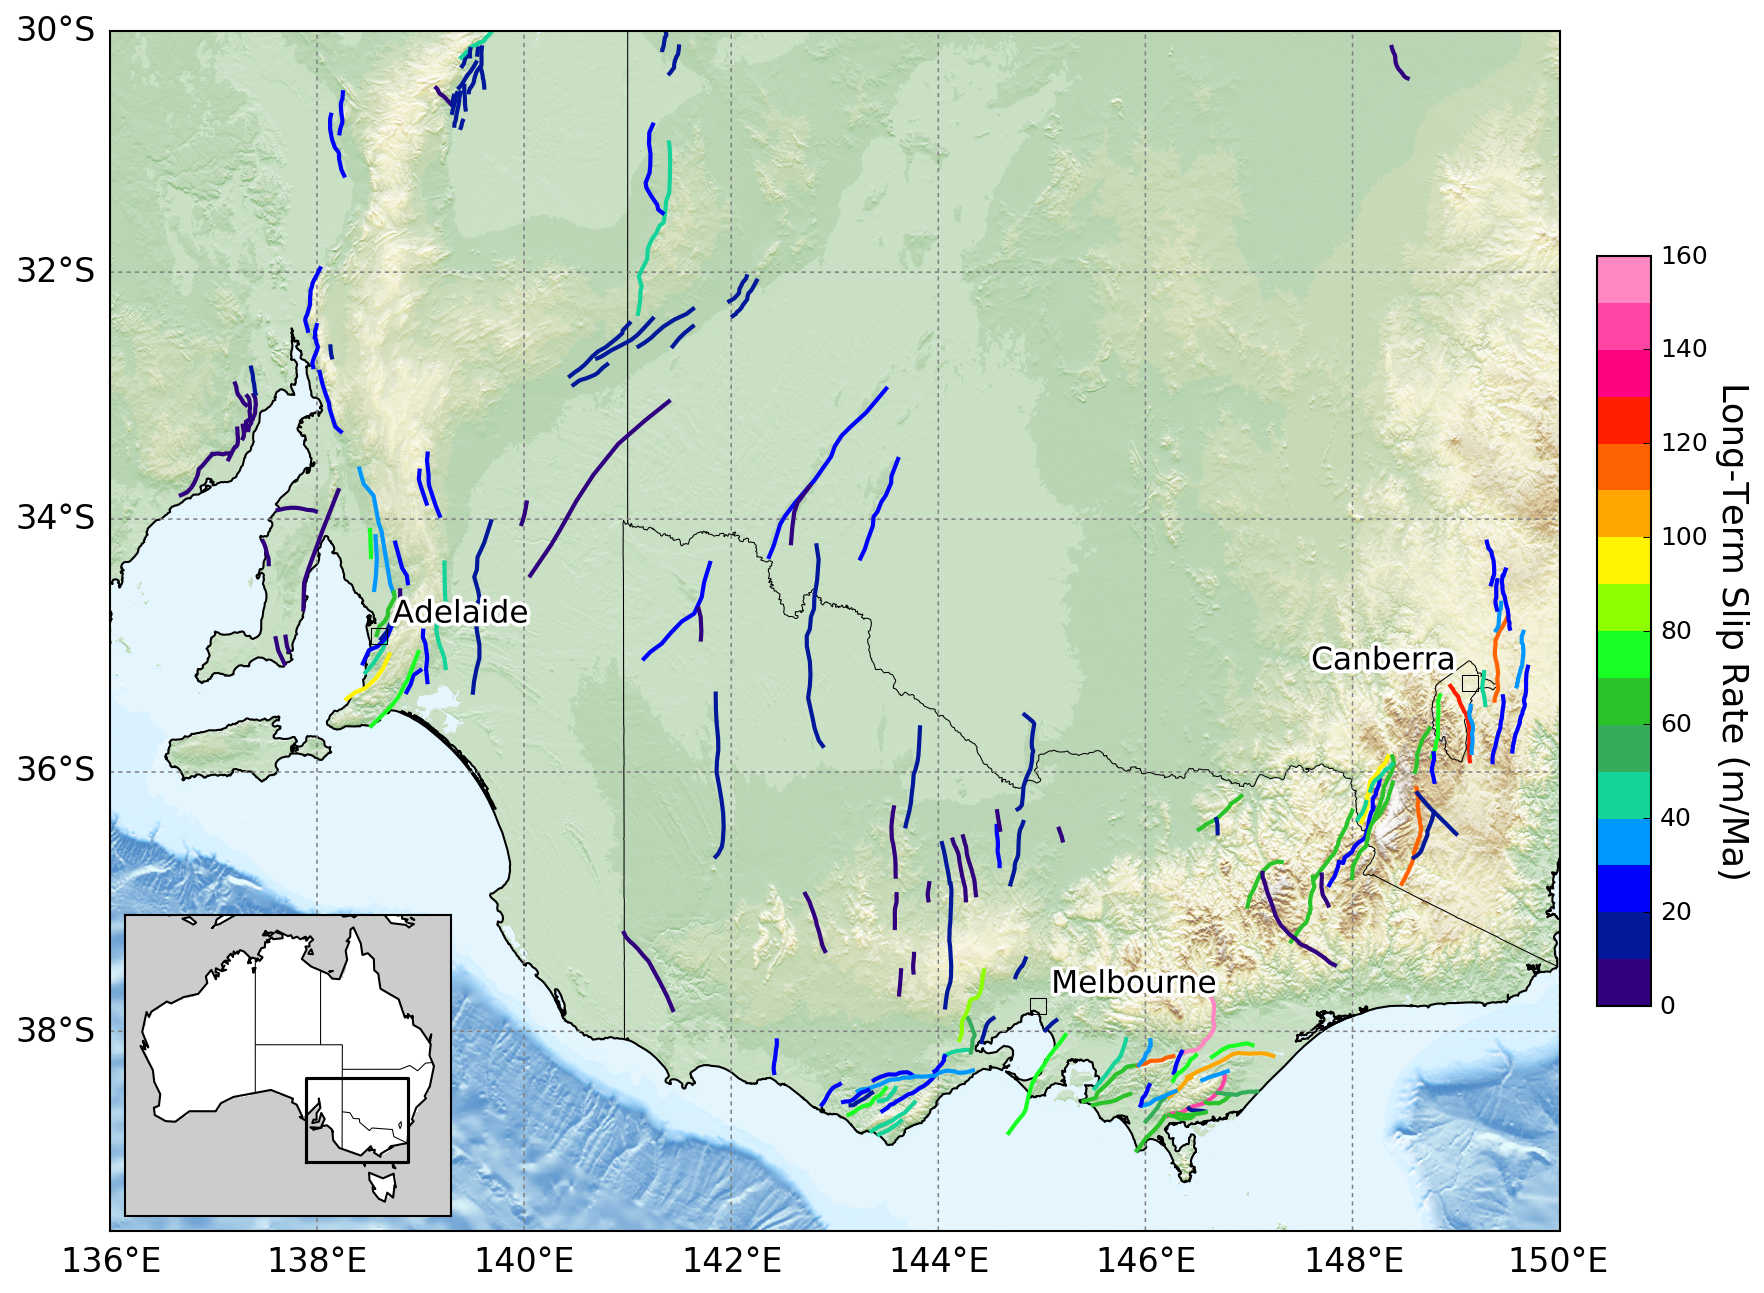
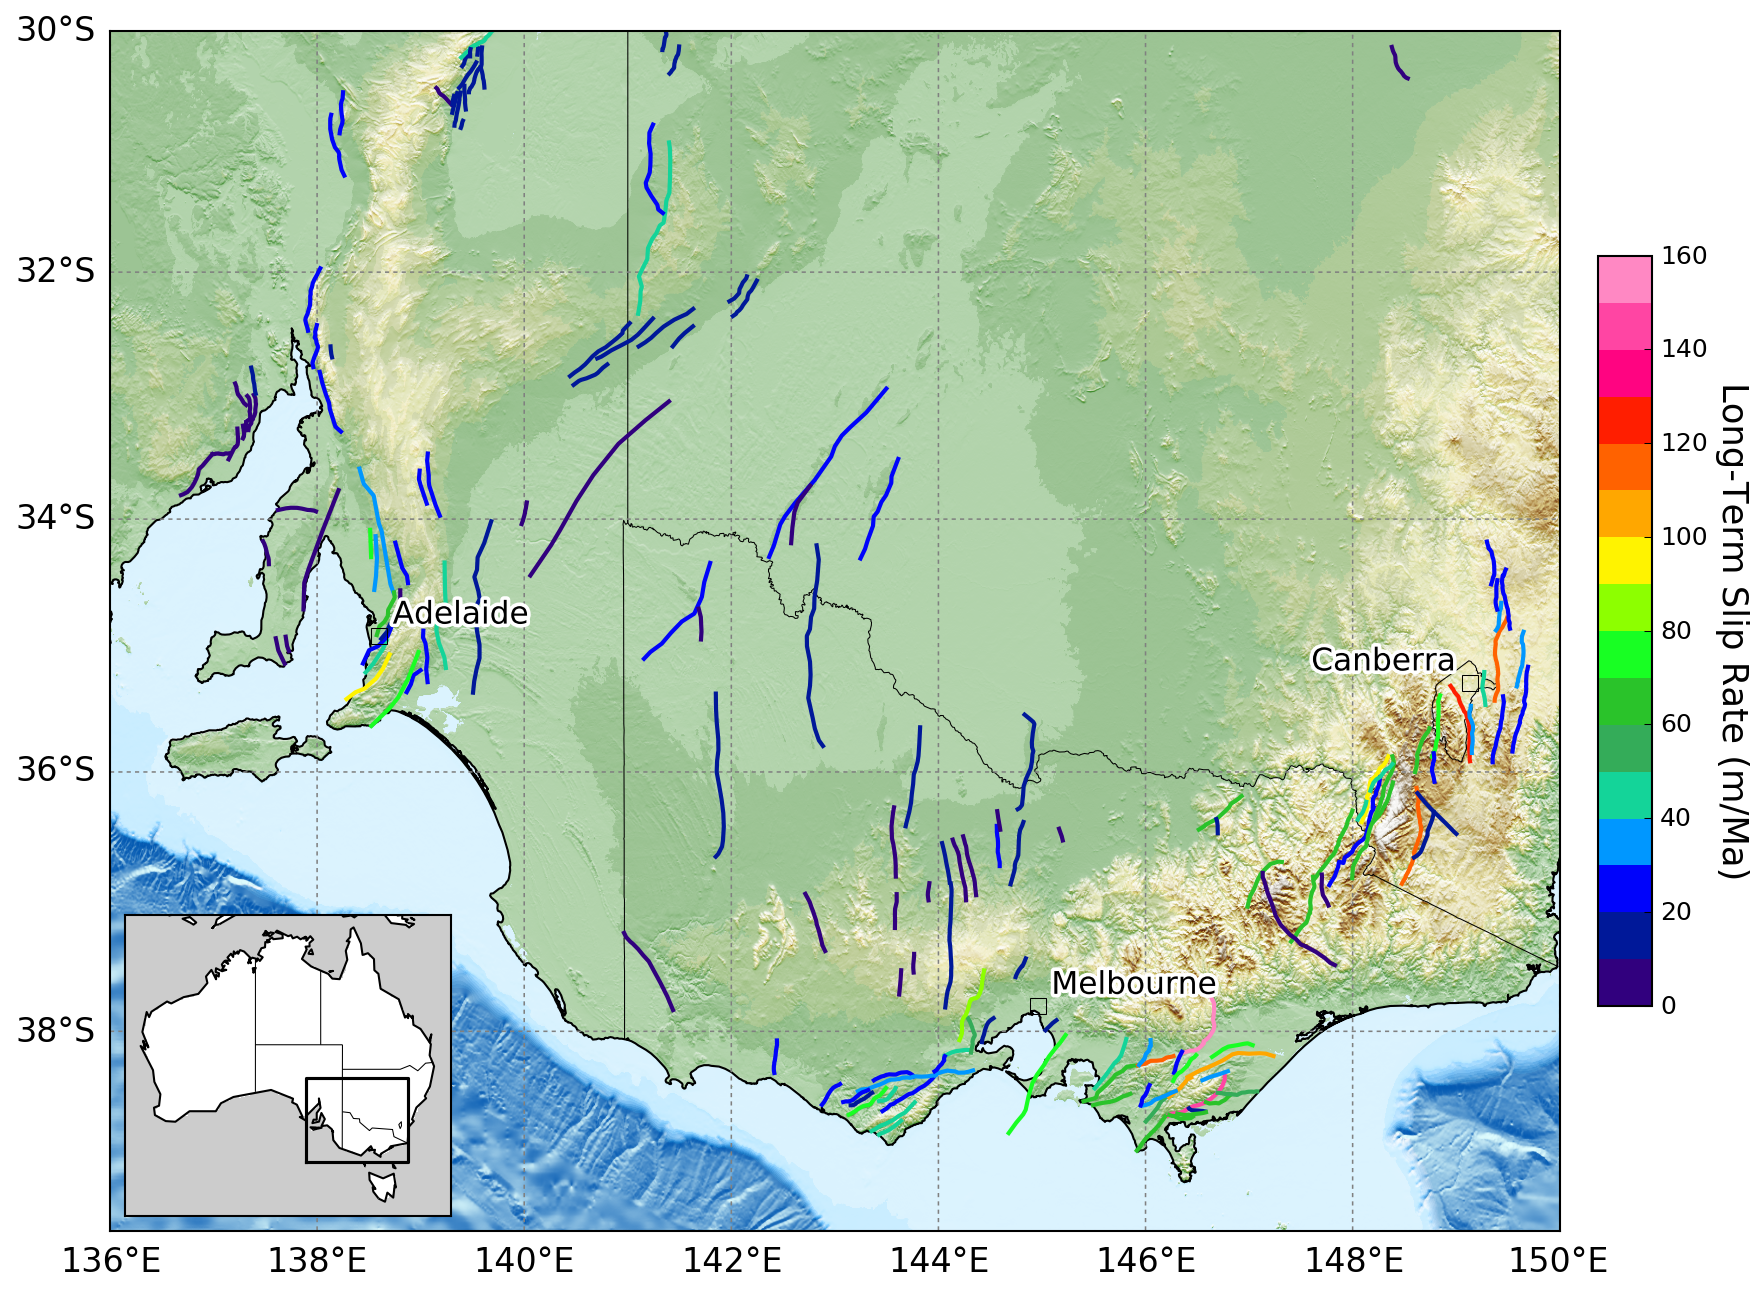
updating cdf plotter

diff --git a/nsha18/final_overview/map_faults.py b/nsha18/final_overview/map_faults.py
@@ -63,8 +63,8 @@ def get_basemap(llcrnrlon, urcrnrlon, llcrnrlat, urcrnrlat, res, fig, useGEBCO):
     if useGEBCO == True:
         print 'Reading netCDF file...'
         if cwd.startswith('/nas'):
-            nc = NetCDFFile('//nas//gemd//ehp//georisk_earthquake//hazard//DATA//GEBCO//au_gebco.nc')
-            cptfile = '//nas//gemd//ehp//georisk_earthquake//hazard//DATA//cpt//mby_topo-bath.cpt'
+            nc = NetCDFFile('/nas/active/ops/community_safety/ehp/georisk_earthquake/hazard//DATA//GEBCO//au_gebco.nc')
+            cptfile = '/nas/active/ops/community_safety/ehp/georisk_earthquake/hazard//DATA//cpt//wiki-2.0.cpt'
             #cptfile = '//nas//gemd//ehp//georisk_earthquake//hazard//DATA//cpt//gray.cpt'
             #cptfile = '//nas//gemd//ehp//georisk_earthquake//hazard//DATA//cpt//mby_topo-bath_mod.cpt'
         else:
@@ -97,7 +97,7 @@ def get_basemap(llcrnrlon, urcrnrlon, llcrnrlat, urcrnrlat, res, fig, useGEBCO):
         #norm = mpl.colors.Normalize(vmin=-8000/zscale, vmax=5000/zscale)#myb
         norm = mpl.colors.Normalize(vmin=-1000/zscale, vmax=1900/zscale)#wiki
         rgb = ls.shade(topodat, cmap=cmap, norm=norm) #norm=norm)
-        im = m.imshow(rgb, alpha=0.7)
+        im = m.imshow(rgb, alpha=1.)
     
     return m, ax
 
@@ -143,7 +143,7 @@ plt.plot(x, y, 'h', mfc='b', mec='w', mew=0.75, markersize=9, label='Large Dams'
 
 cwd = getcwd()
 if cwd.startswith('/nas'):
-    nfsmshp = '//nas//gemd//ehp//georisk_earthquake//neotectonic//Seismicity_Scenario_models//Hazard Map working 2018//ARCGIS//FSM lines//FSD_simple_faults.shp'
+    nfsmshp = '/nas/active/ops/community_safety/ehp/georisk_earthquake/neotectonic//Seismicity_Scenario_models//Hazard Map working 2018//ARCGIS//FSM lines//FSD_simple_faults.shp'
 else:
     nfsmshp = '/Users/tallen/Documents/Geoscience_Australia/NSHA2018/source_models/faults/FSM/FSD_simple_faults.shp'
     
@@ -157,7 +157,7 @@ st_rates = array(st_rates)
 
 
 if cwd.startswith('/nas'):
-    cptfile = '//nas//gemd//ehp//georisk_earthquake//hazard//DATA//cpt//temperature.cpt'
+    cptfile = '/nas/active/ops/community_safety/ehp/georisk_earthquake/hazard//DATA//cpt//humidity.cpt'
 else:
     cptfile = '//Users//tallen//Documents//DATA//GMT//cpt//temperature.cpt'
     cptfile = '//Users//tallen//Documents//DATA//GMT//cpt//humidity.cpt'
@@ -240,7 +240,7 @@ annotate cities
 ###########################################################################################
 '''
 if cwd.startswith('/nas'):
-    capfile = '/Users/tallen/Documents/Geoscience_Australia/NSHA2018/shared/capitals_names.csv'
+    capfile = '/nas/active/ops/community_safety/ehp/georisk_earthquake/modelling/sandpits/tallen/NSHA2018/shared/capitals_names.csv'
 else:
     capfile = '/Users/tallen/Documents/Geoscience_Australia/NSHA2018/shared/capitals_names.csv'
 

diff --git a/nsha18/final_overview/cmp_epistemic_cdf.py b/nsha18/final_overview/cmp_epistemic_cdf.py
@@ -163,7 +163,7 @@ for k, key in enumerate(keys[:2]):
                 
                 
                 # plt mean
-                plt.semilogx([frac1['mean_'+key],frac1['mean_'+key]], [0,1], '--', c='seagreen', lw=1.5, label='Mean')
+                plt.semilogx([frac1['mean_'+key],frac1['mean_'+key]], [0,1], '-', c='seagreen', lw=1.5, label='Mean')
                 plt.semilogx([frac2['mean_'+key],frac2['mean_'+key]], [0,1], '--', c='orangered', lw=1.5, label='Mean')
                 '''
                 # plt median
